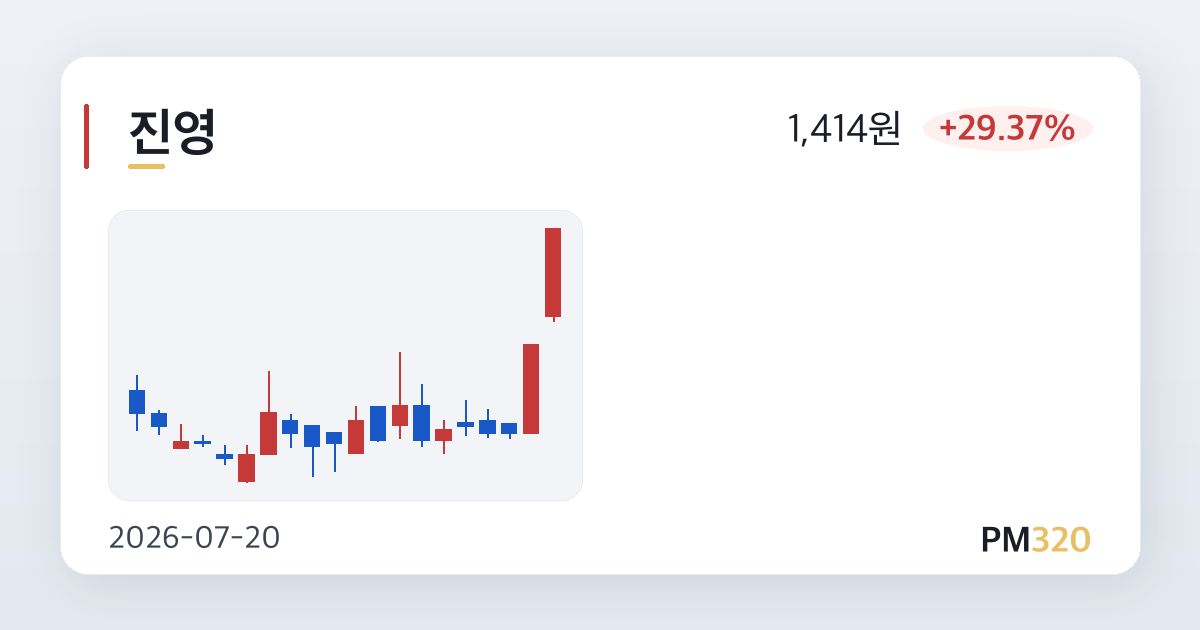
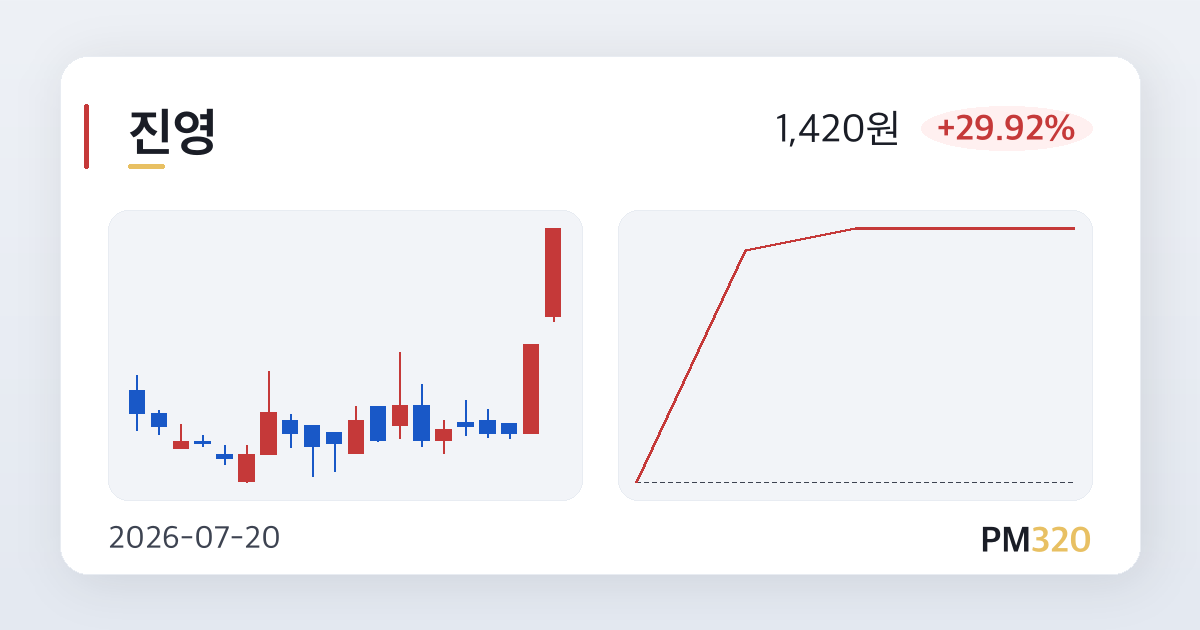
chore(kiwoom): 2026-07-20T09:37 condition search update

Changed region(s): [[0.6475, 0.181, 0.8633, 0.2413], [0.6475, 0.3619, 0.8942, 0.3921], [0.6167, 0.3921, 0.6475, 0.4222]]

diff --git a/pm320/2026-07-20/285800.html b/pm320/2026-07-20/285800.html
@@ -4,14 +4,14 @@
 <meta charset="UTF-8">
 <title>진영</title>
 <meta property="og:title" content="진영">
-<meta property="og:description" content="플라스틱제품 제조업 · 오늘의 주목 종목">
-<meta property="og:image" content="https://pm320.100m1s.com/og/pm320/2026-07-20/285800.png?v=1784506875">
+<meta property="og:description" content="[MK 골든크로스 돌파종목 : 대주산업(003310) &amp; 진영(285800)]">
+<meta property="og:image" content="https://pm320.100m1s.com/og/pm320/2026-07-20/285800.png?v=1784507493">
 <meta property="og:image:width" content="1200">
 <meta property="og:image:height" content="630">
 <meta property="og:url" content="https://pm320.100m1s.com/pm320/2026-07-20/285800.html">
 <meta property="og:type" content="article">
 <meta name="twitter:card" content="summary_large_image">
-<meta name="twitter:image" content="https://pm320.100m1s.com/og/pm320/2026-07-20/285800.png?v=1784506875">
+<meta name="twitter:image" content="https://pm320.100m1s.com/og/pm320/2026-07-20/285800.png?v=1784507493">
 <meta name="robots" content="index, follow">
 <script>
 (function() {

diff --git a/pm320/2026-07-20/000250.html b/pm320/2026-07-20/000250.html
@@ -5,13 +5,13 @@
 <title>삼천당제약</title>
 <meta property="og:title" content="삼천당제약">
 <meta property="og:description" content="삼천당제약, FDA 공식 회신 확보…&quot;경구용 GLP-1 사업화 탄력&quot;">
-<meta property="og:image" content="https://pm320.100m1s.com/og/pm320/2026-07-20/000250.png?v=1784506875">
+<meta property="og:image" content="https://pm320.100m1s.com/og/pm320/2026-07-20/000250.png?v=1784507493">
 <meta property="og:image:width" content="1200">
 <meta property="og:image:height" content="630">
 <meta property="og:url" content="https://pm320.100m1s.com/pm320/2026-07-20/000250.html">
 <meta property="og:type" content="article">
 <meta name="twitter:card" content="summary_large_image">
-<meta name="twitter:image" content="https://pm320.100m1s.com/og/pm320/2026-07-20/000250.png?v=1784506875">
+<meta name="twitter:image" content="https://pm320.100m1s.com/og/pm320/2026-07-20/000250.png?v=1784507493">
 <meta name="robots" content="index, follow">
 <script>
 (function() {

diff --git a/pm320/2026-07-20/066910.html b/pm320/2026-07-20/066910.html
@@ -5,13 +5,13 @@
 <title>손오공</title>
 <meta property="og:title" content="손오공">
 <meta property="og:description" content="기타 전문 도매업 · 오늘의 주목 종목">
-<meta property="og:image" content="https://pm320.100m1s.com/og/pm320/2026-07-20/066910.png?v=1784506875">
+<meta property="og:image" content="https://pm320.100m1s.com/og/pm320/2026-07-20/066910.png?v=1784507493">
 <meta property="og:image:width" content="1200">
 <meta property="og:image:height" content="630">
 <meta property="og:url" content="https://pm320.100m1s.com/pm320/2026-07-20/066910.html">
 <meta property="og:type" content="article">
 <meta name="twitter:card" content="summary_large_image">
-<meta name="twitter:image" content="https://pm320.100m1s.com/og/pm320/2026-07-20/066910.png?v=1784506875">
+<meta name="twitter:image" content="https://pm320.100m1s.com/og/pm320/2026-07-20/066910.png?v=1784507493">
 <meta name="robots" content="index, follow">
 <script>
 (function() {

diff --git a/pm320/2026-07-20/079940.html b/pm320/2026-07-20/079940.html
@@ -5,13 +5,13 @@
 <title>가비아</title>
 <meta property="og:title" content="가비아">
 <meta property="og:description" content="소프트웨어 개발 및 공급업 · 오늘의 주목 종목">
-<meta property="og:image" content="https://pm320.100m1s.com/og/pm320/2026-07-20/079940.png?v=1784506875">
+<meta property="og:image" content="https://pm320.100m1s.com/og/pm320/2026-07-20/079940.png?v=1784507493">
 <meta property="og:image:width" content="1200">
 <meta property="og:image:height" content="630">
 <meta property="og:url" content="https://pm320.100m1s.com/pm320/2026-07-20/079940.html">
 <meta property="og:type" content="article">
 <meta name="twitter:card" content="summary_large_image">
-<meta name="twitter:image" content="https://pm320.100m1s.com/og/pm320/2026-07-20/079940.png?v=1784506875">
+<meta name="twitter:image" content="https://pm320.100m1s.com/og/pm320/2026-07-20/079940.png?v=1784507493">
 <meta name="robots" content="index, follow">
 <script>
 (function() {